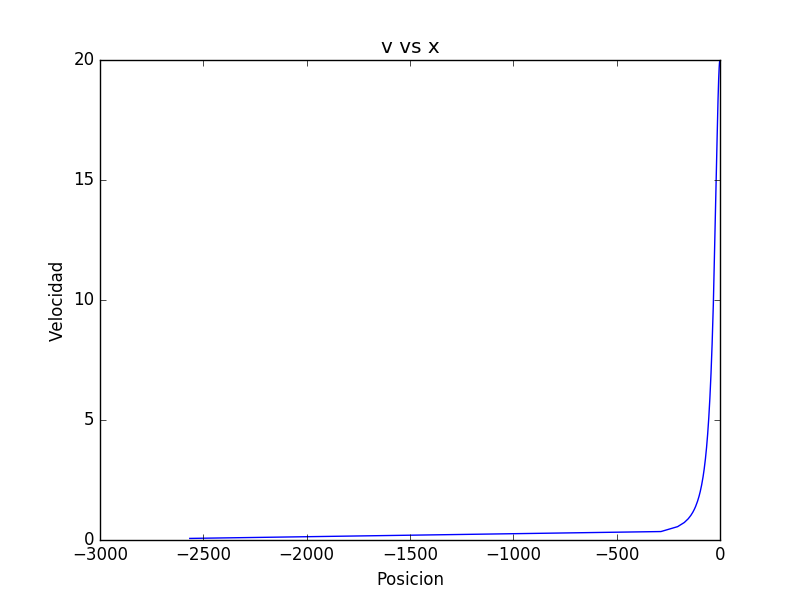
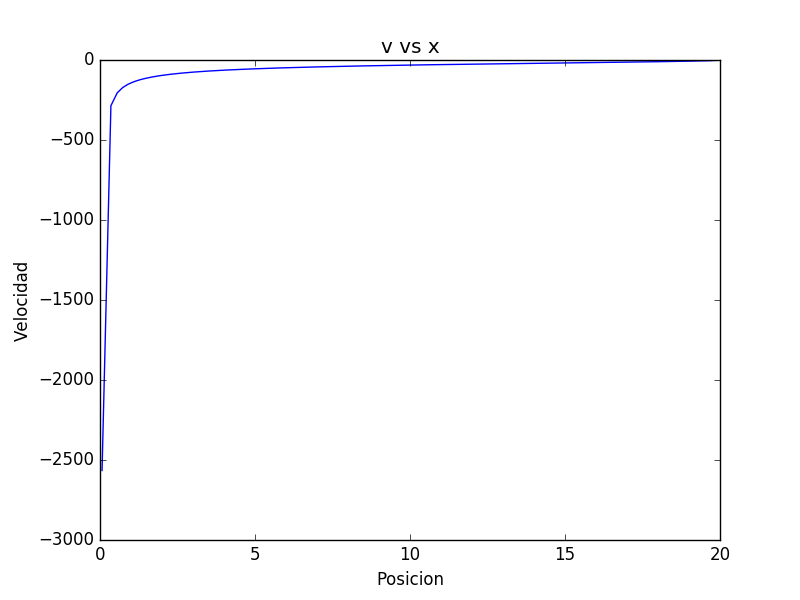
COrreccion

diff --git a/AR_graph.py b/AR_graph.py
@@ -8,21 +8,21 @@ t = np.genfromtxt("tray.txt", usecols = 2)
 plt.title("x vs t")
 plt.xlabel("Tiempo")
 plt.ylabel("Posicion")
-plt.plot(x,t)
+plt.plot(t,x)
 plt.savefig("pos.png")
 plt.clf()
 
 plt.title("v vs t")
 plt.xlabel("Tiempo")
 plt.ylabel("Velocidad")
-plt.plot(v,t)
+plt.plot(t,v)
 plt.savefig("vel.png")
 plt.clf()
 
 plt.title("v vs x")
 plt.xlabel("Posicion")
 plt.ylabel("Velocidad")
-plt.plot(v,x)
+plt.plot(x,v)
 plt.savefig("phase.png")
 
 
